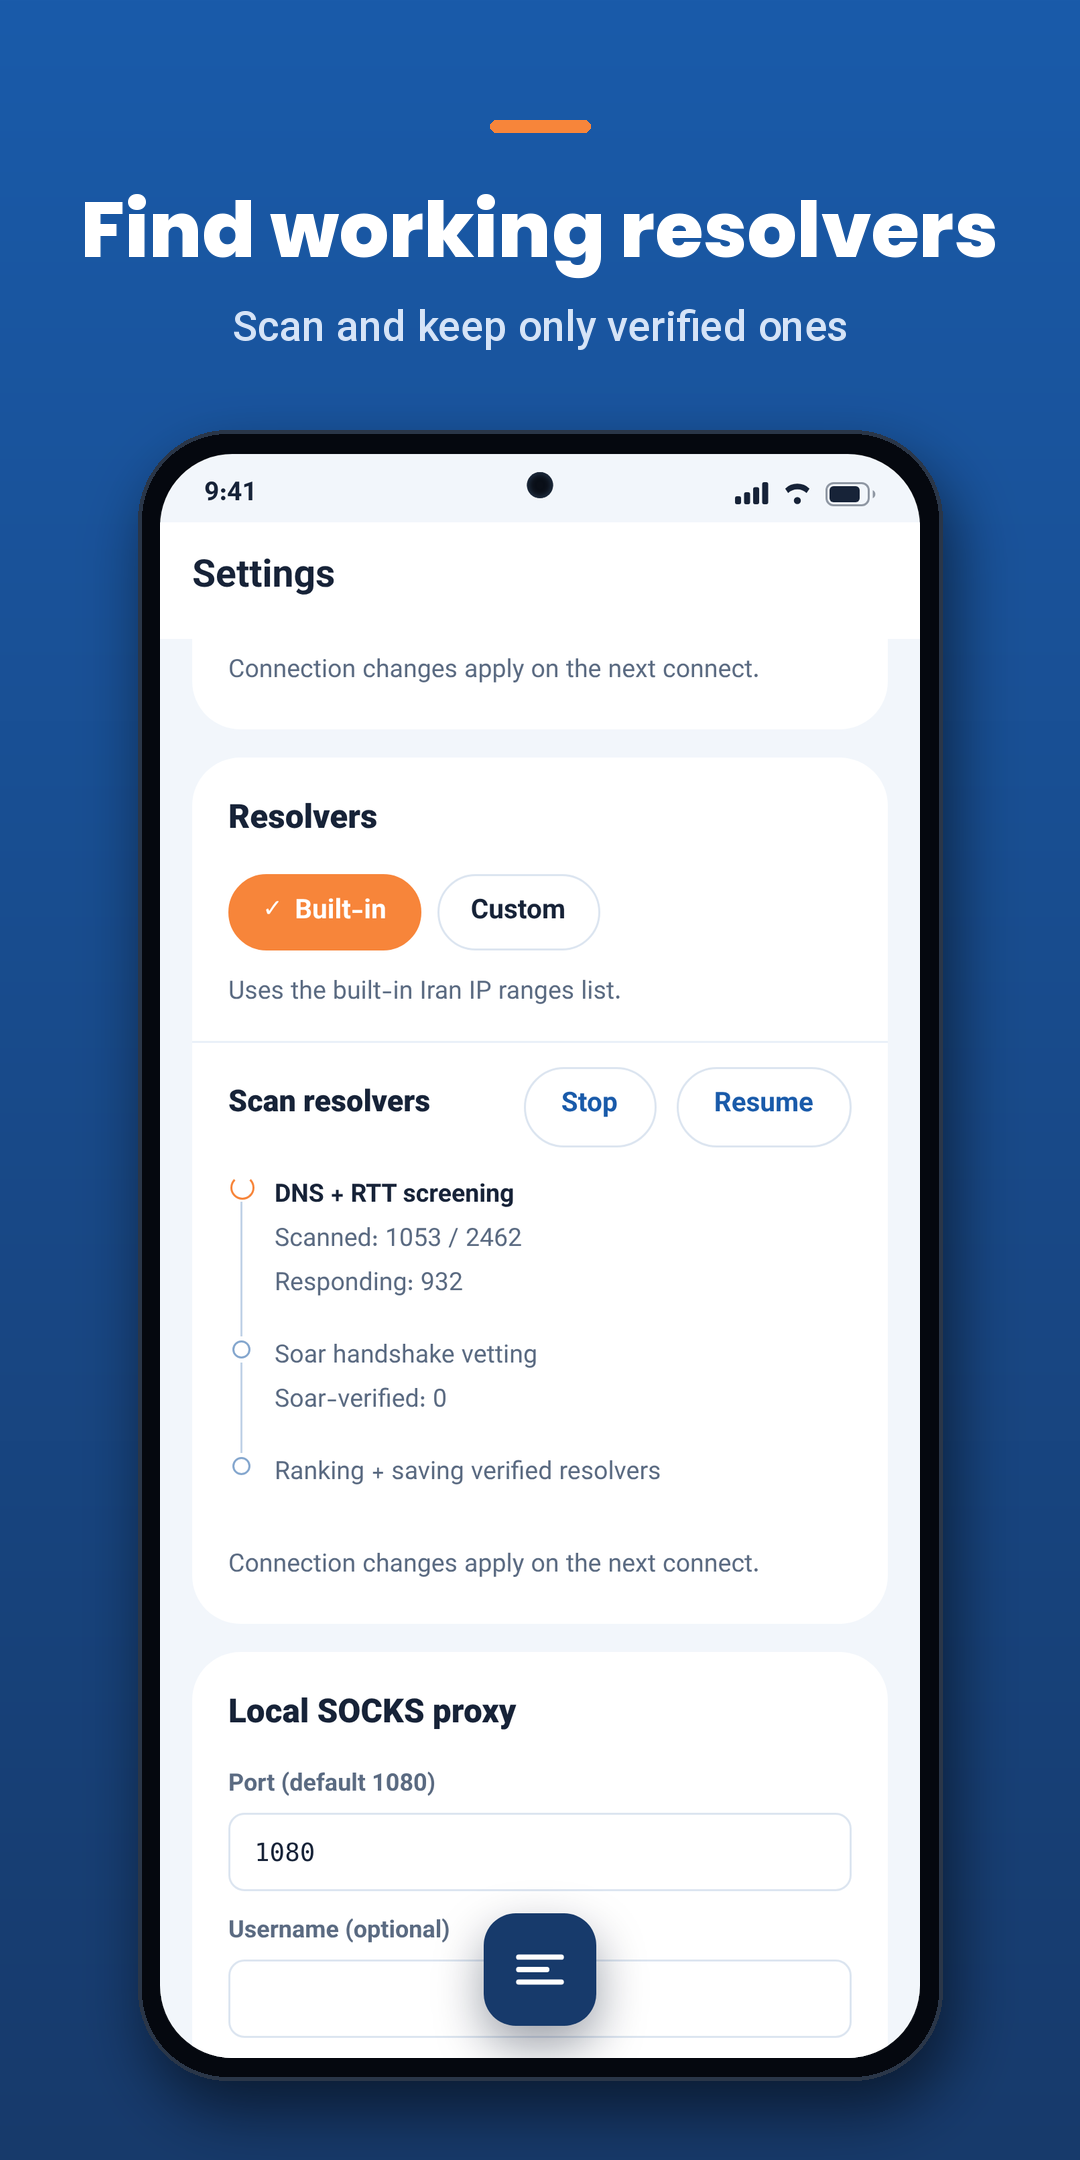
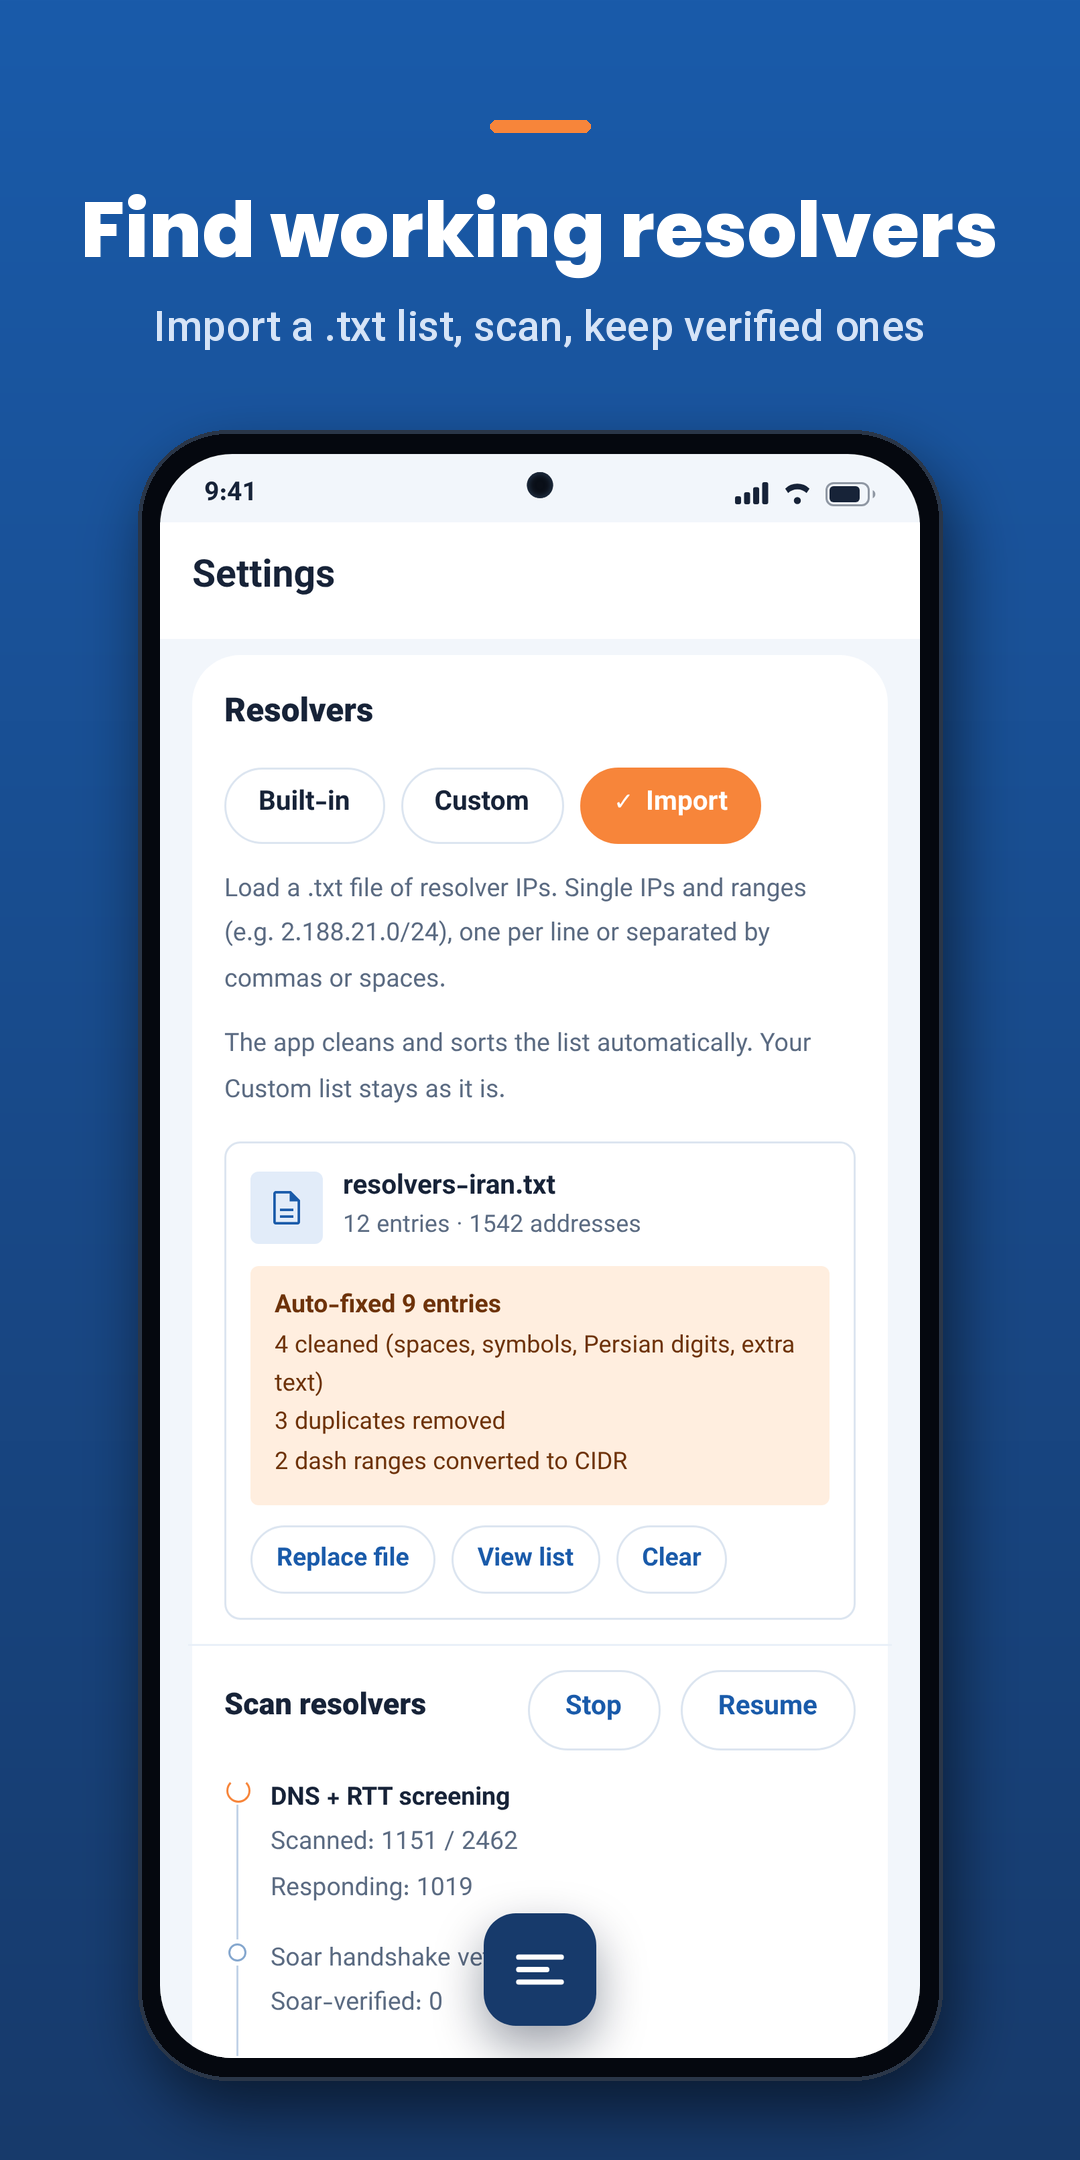
1.0.2: screenshot 4 shows resolver Import

diff --git a/RELEASE-1.0.2.md b/RELEASE-1.0.2.md
@@ -47,6 +47,7 @@ Branch: `release-1.0.2` (from `main` / v1.0.1, 93a6524). Not pushed.
 - [x] Separate stored list (imported_resolvers, import_file_name, imported_at_ms); DiscoveryMode.IMPORT behaves like CUSTOM in TunnelManager (no discovery; scan/connect use only this list). Scan UI unchanged (same 3-stage stepper).
 - [x] Limits unchanged from the core: ranges up to /20; scan cap 5000 addresses (warning shown).
 - [x] Changelogs 31-33 (en-US, fa) updated.
+- [x] Web demo: Import chip + file card (sample resolvers-iran.txt), fix report, Replace/View list/Clear. en-US screenshot 4 now shows Import mode with the scan stepper.
 - [ ] Not compiled here (no Android SDK). Cleaner logic was compiled and tested with kotlinc 2.0.21 on JVM. Needs CI build + device test (pick file, replace, clear, scan, connect, switch Custom<->Import keeps both lists).
 
 ## Capsule menu + text centring (2026-11-26)
@@ -55,3 +56,7 @@ Branch: `release-1.0.2` (from `main` / v1.0.1, 93a6524). Not pushed.
 - [x] App-wide: typography with text centred in its line box (LineHeightStyle Center) so icon+label rows, chips and pills stay vertically centred.
 - [x] Web demo capsule updated to match; en-US F-Droid screenshots re-rendered.
 - [x] Nested-radius rule app-wide (outer = inner + padding): top-level cards (Settings, About, Tutorial, Servers empty state, Add dialog) 24dp with 16dp padding; panels, list boxes, text fields, menus and Add cards inside them 8dp (Theme shapes extraSmall/small = 8dp); capsule pill 11dp (16dp capsule, 5dp inset); mode switch 10dp track, 2dp inset, 8dp segment (already correct). Small floating pills/badges that do not hug a container edge keep their shape. Web demo matched; screenshots re-rendered.
+
+## On push/build (user rule, 2026-11-26 15:27)
+- [ ] When the user says push and build: also update the GitHub repo to match 1.0.2 — README (features, incl. resolver Import in the Resolvers section; version 1.0.2; Android + iOS notes), repo description/topics if needed.
+- [ ] GitHub release v1.0.2 body: full list of what changed in this version (Cloud theme, new logo/icon, resolver Import, capsule menu, nested-radius/centring UX pass, iOS parity). Show the exact text to the user before publishing.
